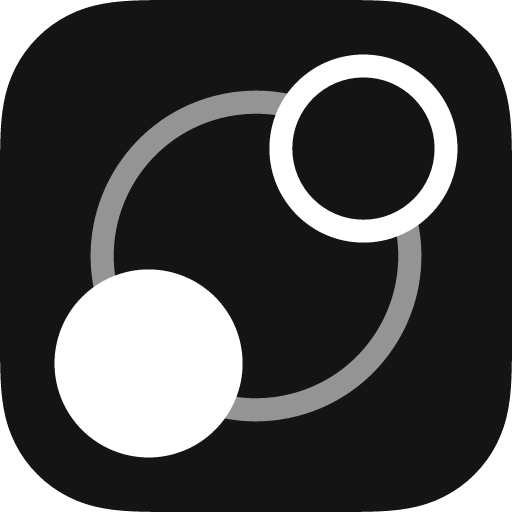
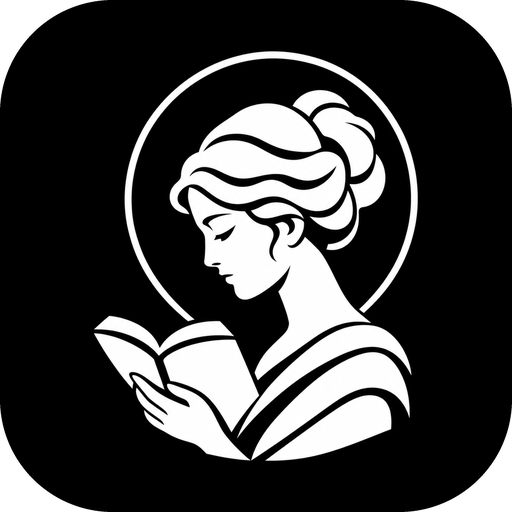
Ypatia: nome e ícone novos na marca; README com o nome Ypatia

diff --git a/README.md b/README.md
@@ -1,10 +1,10 @@
-# TutorForLearning — plugins abertos do LearnHarness
+# TutorForLearning — Ypatia e seus plugins abertos
 
 *[English below](#english)*
 
-Plugins, kit e registro aberto para o **LearnHarness**, um tutor de estudo com IA que roda no seu computador. Ele ensina pelo porquê, lembra do que você errou e agenda a revisão. Este repositório é o **ecossistema aberto**: qualquer pessoa pode usar, melhorar e criar plugins.
+Plugins, kit e registro aberto para o **Ypatia**, um tutor de estudo com IA que roda no seu computador. Ele ensina pelo porquê, lembra do que você errou e agenda a revisão. Este repositório é o **ecossistema aberto**: qualquer pessoa pode usar, melhorar e criar plugins.
 
-> **Versão modificada.** Este é um fork do [LearnHarness](https://github.com/amosblomqvist/learnharness) (de Amos Blomqvist, AGPL-3.0), **modificado por Victor Gonçalves Soares**. Não é afiliado ao autor original.
+> **Versão modificada.** O **Ypatia** é um fork do [LearnHarness](https://github.com/amosblomqvist/learnharness) (de Amos Blomqvist, AGPL-3.0), **modificado por Victor Gonçalves Soares**. Não é afiliado ao autor original.
 > *Modified version: a fork of [LearnHarness](https://github.com/amosblomqvist/learnharness) (AGPL-3.0), modified by Victor Gonçalves Soares; not affiliated with the original author.*
 
 ## Baixar o app
@@ -45,7 +45,7 @@ O LearnHarness original é de [amosblomqvist/learnharness](https://github.com/am
 
 ## English
 
-Open plugins, a plugin kit and an open registry for **LearnHarness**, an AI study tutor that runs on your computer: it teaches through the *why*, remembers what you got wrong and schedules reviews.
+Open plugins, a plugin kit and an open registry for **Ypatia** (a modified LearnHarness), an AI study tutor that runs on your computer: it teaches through the *why*, remembers what you got wrong and schedules reviews.
 
 - **Use a plugin:** in the app, Settings → Community → Open registry → Install. Each file is checked against its sha256 and the plugin passes the verifier before it is installed.
 - **Create a plugin:** use the [`kit/`](kit) folder with Claude Code (skill `criar-plugin`) or OpenCode (`AGENTS.md`). Run `node kit/lh-plugin.mjs verificar <folder>`; a plugin is ready only when it says `PASSOU` (passed).

diff --git a/marca/README.md b/marca/README.md
@@ -11,5 +11,5 @@ Os apps instalados pegam a mudança na próxima vez que abrirem (o GitHub pode l
 novo). Sem internet, vale a última marca guardada no aparelho.
 
 O que só muda num instalador novo (o sistema grava no momento da instalação): o nome do atalho no Menu Iniciar, na Dock
-e na tela inicial do Android, e o nome do arquivo do instalador. A pasta de dados continua "LearnHarness" de propósito,
+e na tela inicial do Android, e o nome do arquivo do instalador. A pasta de dados continua "LearnHarness" (nome antigo) de propósito,
 para nenhuma instalação perder os estudos.
